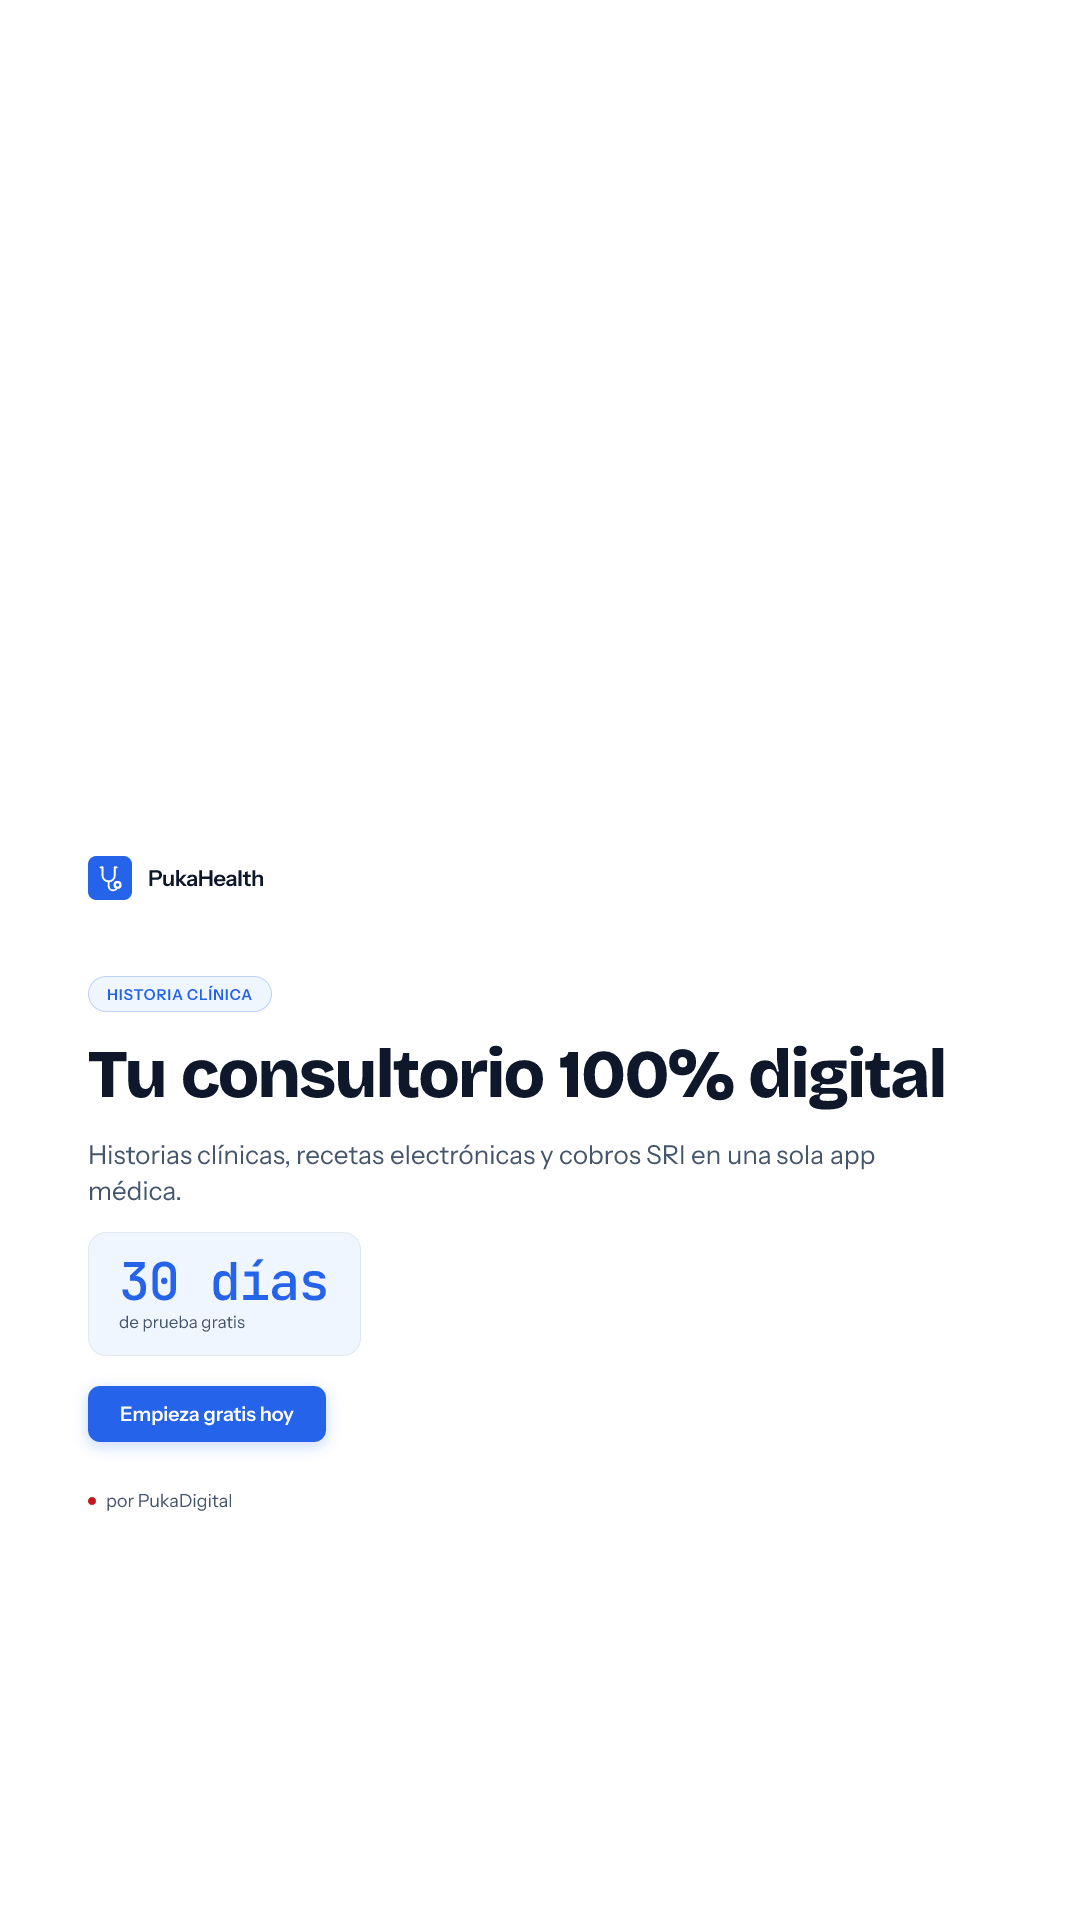
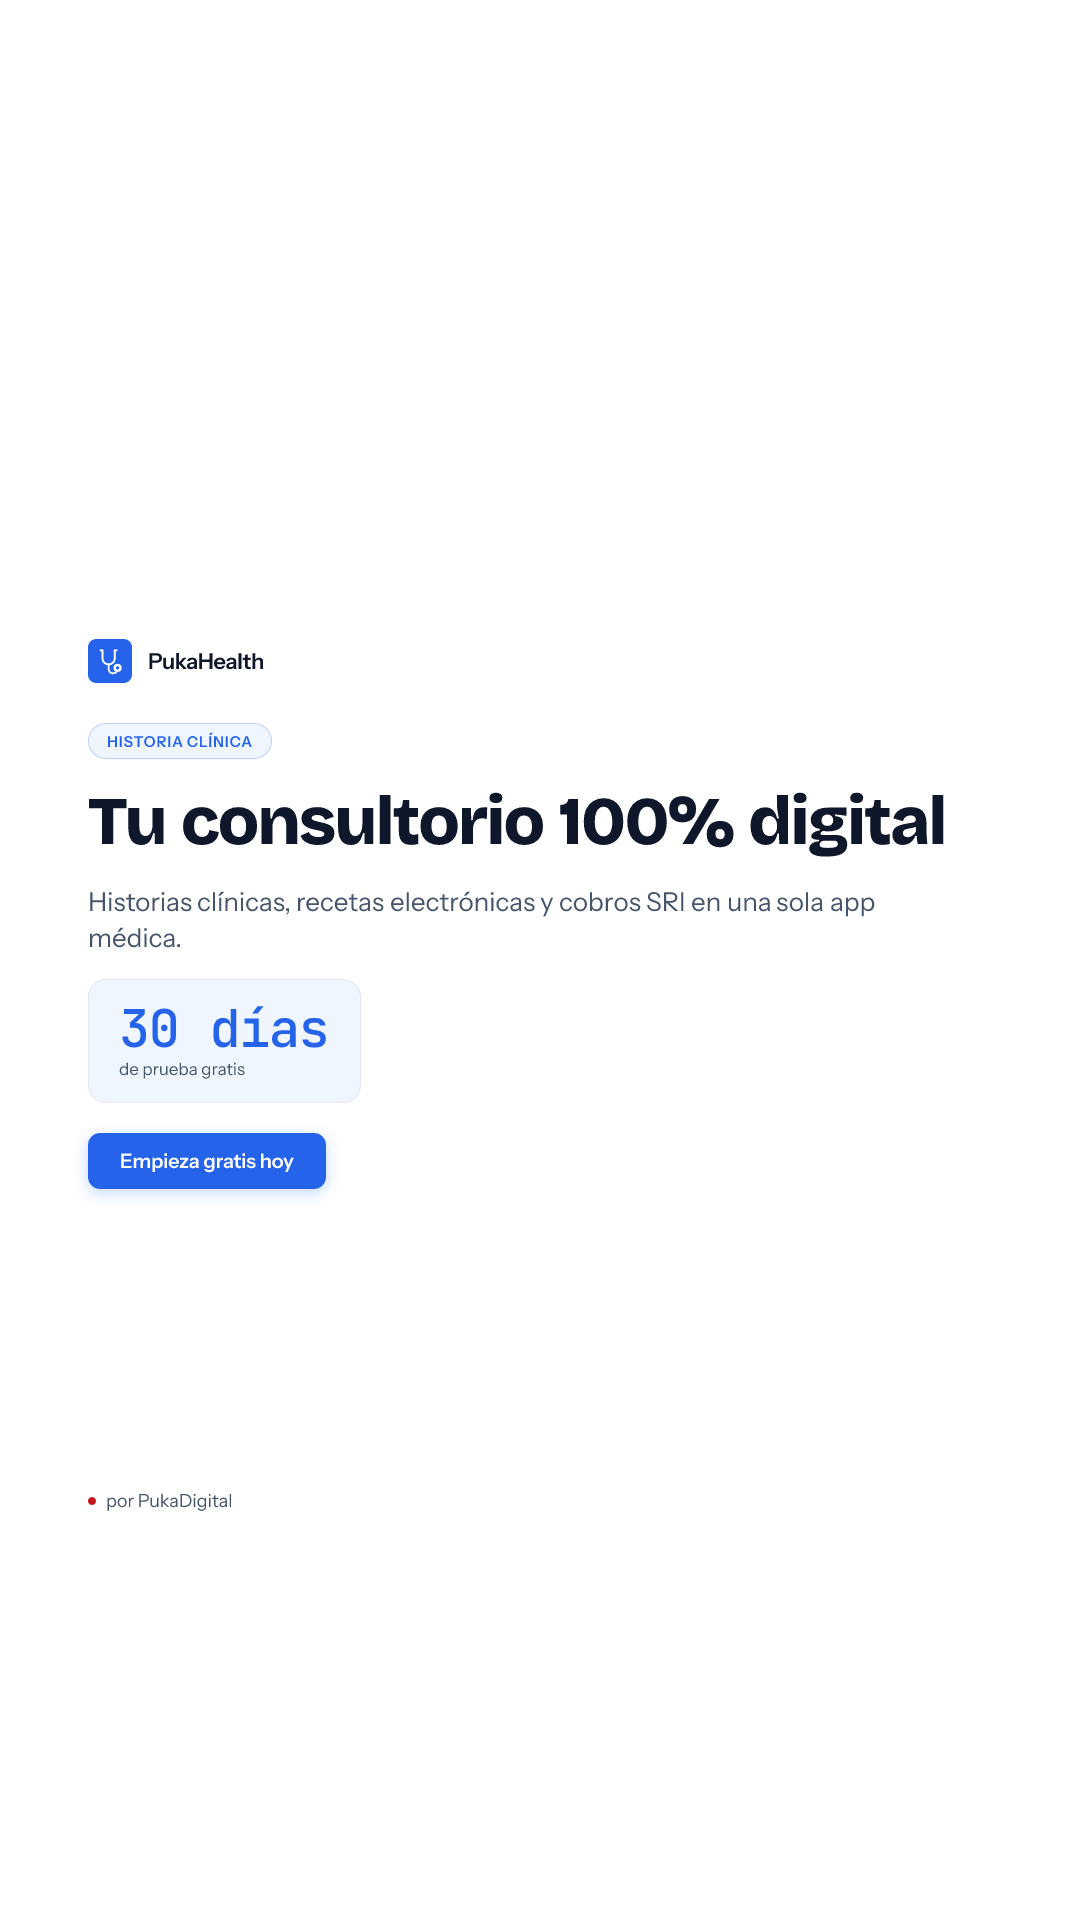
fix(piezas): centrar el bloque y quitar el hueco del 4x5
Al recomponer la historia 9x16 agrupe cabecera y cuerpo, pero deje el
space-between en 4x5 y 1x1. Resultado: el logo arriba del todo, el contenido
pegado abajo y 800 px de negro en medio, un 60% de la pieza vacia. La pieza que
se publicó arrastraba ese error.

Ahora cabecera y cuerpo viajan juntos en todos los formatos y el par de margenes
auto centra el grupo en el espacio libre sobre el pie. De paso desaparece el
caso especial por formato, que era la causa de haber arreglado uno solo.

Queda aire arriba y abajo en piezas de una sola idea, y eso ya no es de la
plantilla: es que un titular y una bajada no llenan 1080x1350. Lo resuelve
tener mas que decir por slide, que es justo lo que da el carrusel.

Changed region(s): [[0.0611, 0.3125, 0.8861, 0.625], [0.0611, 0.6562, 0.3056, 0.7812]]

diff --git a/lib/piezas/plantilla.tsx b/lib/piezas/plantilla.tsx
@@ -110,8 +110,12 @@ export function Plantilla({
           justifyContent: 'space-between',
           alignItems: 'center',
           width: '100%',
-          // La historia agrupa cabecera y cuerpo abajo en vez de repartirlos.
-          ...(formato === '9x16' ? { marginTop: 'auto', marginBottom: 56 } : {}),
+          // Cabecera y cuerpo viajan juntos. El 'auto' de arriba, con el del
+          // cuerpo abajo, centra el grupo en el espacio libre sobre el pie. Sin
+          // esto el logo se queda arriba del todo y el 4x5 sale con un 60% de
+          // la pieza en negro.
+          marginTop: 'auto',
+          marginBottom: 40,
         }}
       >
         <div
@@ -167,11 +171,11 @@ export function Plantilla({
         style={{
           display: 'flex',
           flexDirection: 'column',
-          justifyContent: 'flex-end',
-          flex: formato === '9x16' ? 'none' : 1,
+          justifyContent: 'flex-start',
+          flex: 'none',
           gap: formato === '1x1' ? 18 : 24,
-          marginTop: 20,
-          marginBottom: formato === '1x1' ? 24 : 48,
+          // Cierra el centrado que abre el marginTop de la cabecera.
+          marginBottom: 'auto',
         }}
       >
         {/* Slot: Badge */}
